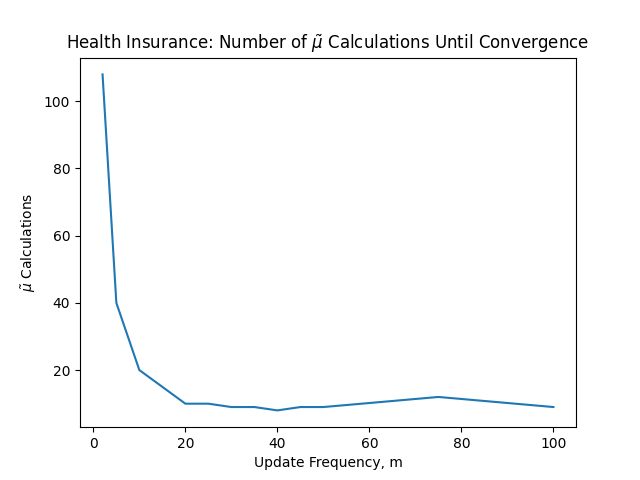
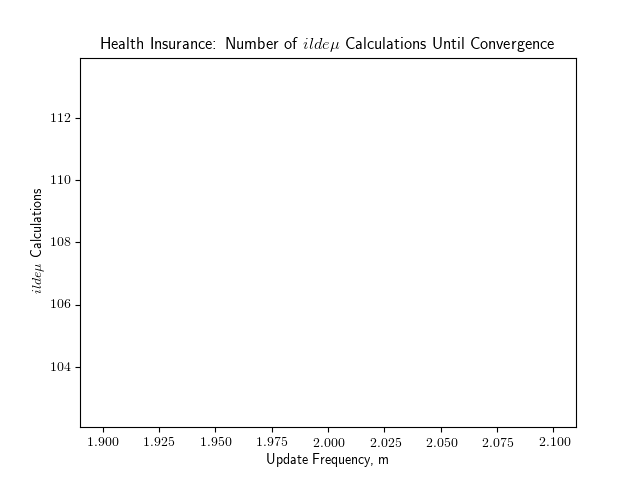
Updated plot

diff --git a/SVRG_experiments.py b/SVRG_experiments.py
@@ -6,10 +6,12 @@
 import numpy as np
 import pandas as pd
 from numpy import linalg as LA
-import matplotlib.pyplot as plt
 import mnist_reader
 import random
 import math
+import matplotlib.pyplot as plt
+plt.rc('text', usetex=True)
+
 
 def sigmoid(x):
     '''
@@ -195,7 +197,7 @@ def SVRG_logistic(X, y, update_freq, lr=0.5, eps=0.01):
 def SVRG_testbed(X_train, y_train, X_test, y_test):
     # Iterate over frequencies (for each model)
     # Comparison with CVX perhaps?
-    update_freqs = [2,5,10,15,20,25,30,35,40,45,50,75,100]
+    update_freqs = [2]#,5,10,15,20,25,30,35,40,45,50,75,100]
     SVRG_ws = []
     SVRG_tot_iters = []
     SVRG_s_iters = []
@@ -210,8 +212,8 @@ def SVRG_testbed(X_train, y_train, X_test, y_test):
     plt.figure(1)
     plt.plot(update_freqs, SVRG_s_iters)
     plt.xlabel('Update Frequency, m')
-    plt.ylabel('$\~\mu$ Calculations')
-    plt.title('Health Insurance: Number of $\~\mu$ Calculations Until Convergence')
+    plt.ylabel('$\tilde{\mu}$ Calculations')
+    plt.title('Health Insurance: Number of $\tilde{\mu}$ Calculations Until Convergence')
     plt.savefig('SVRG_avg_grad_calcs_v_freq.png')
     #w = SGD_logistic(X_train.to_numpy(), y_train.to_numpy())
     #w = GD_logistic(X_train.to_numpy(), y_train.to_numpy(), 1e-4)
